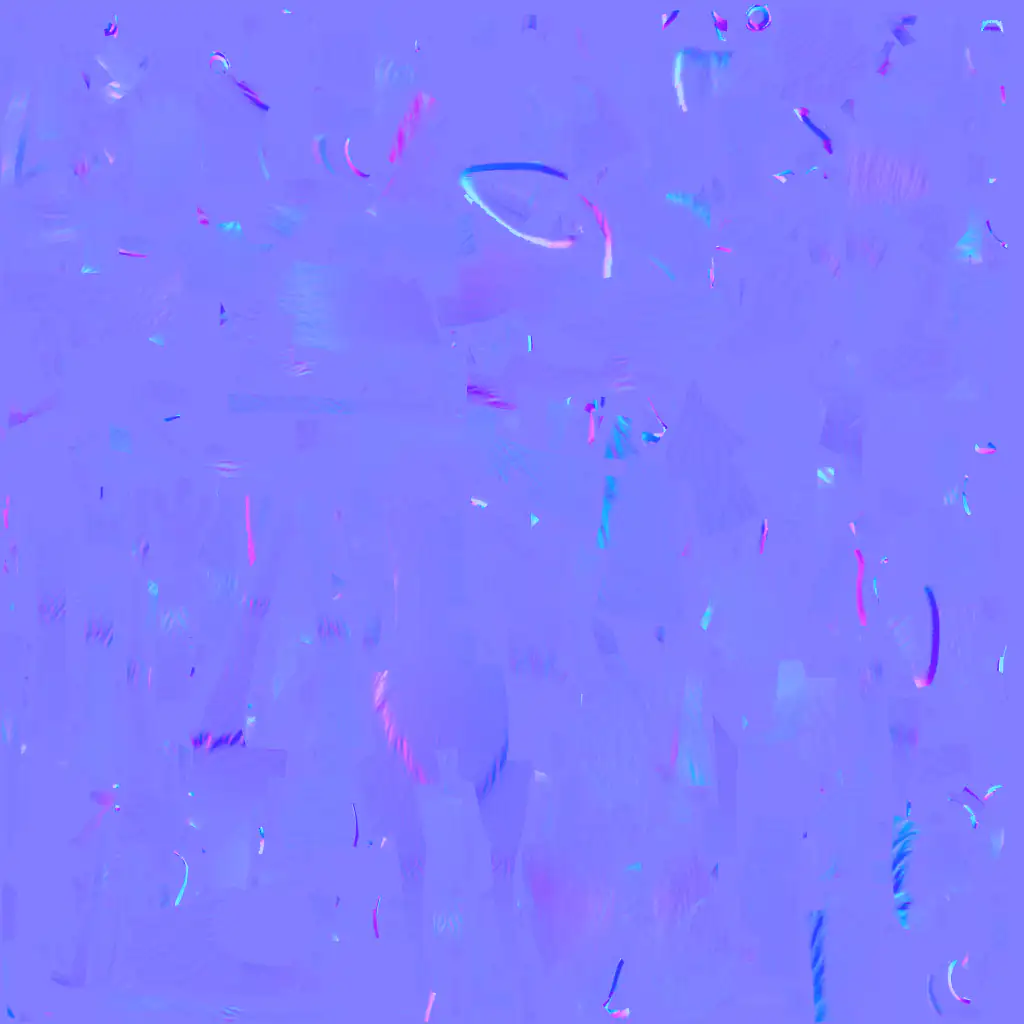
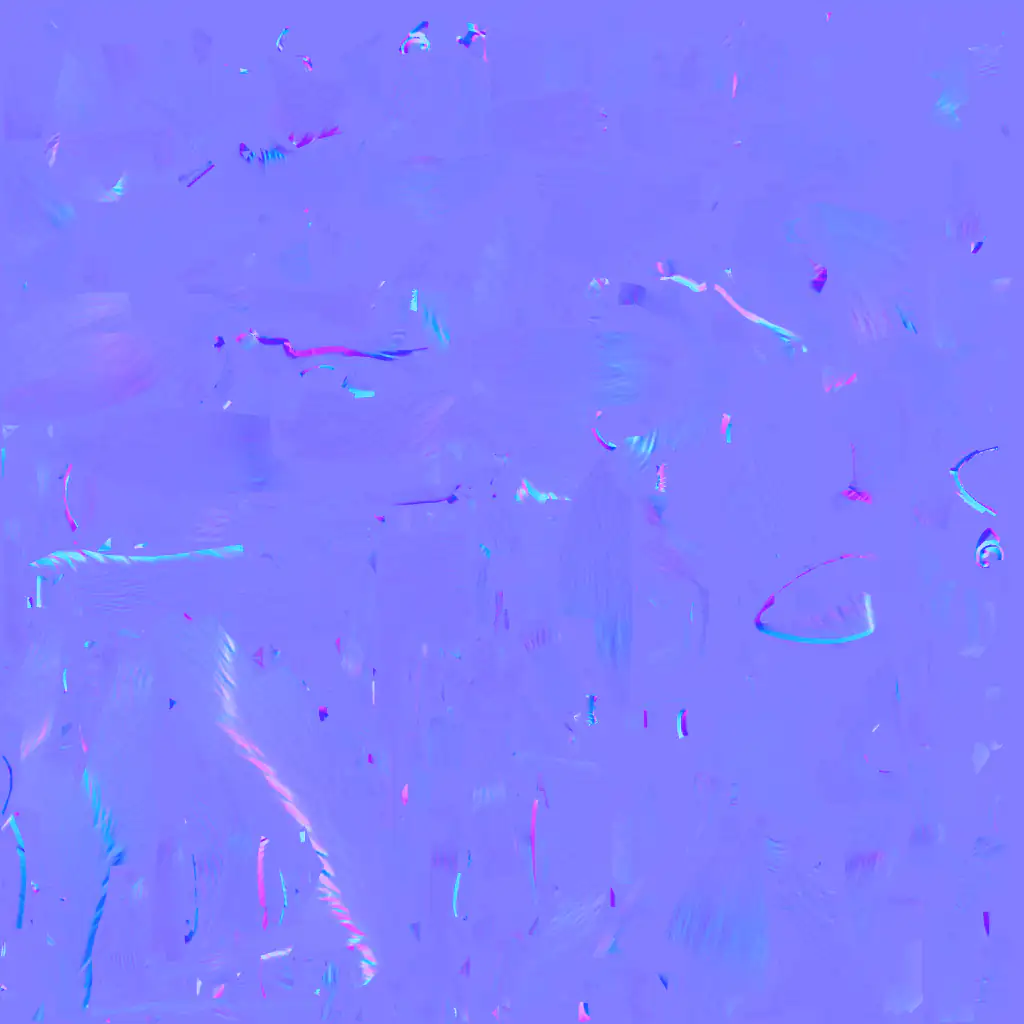
feat(tools): write the fox maps from the new Tripo fox source
tools/fox-maps.py writes the red, the tan, and the normal map from the
maps of the new source. The gaze shift is off (GAZE_SHIFT), because the
source paints each iris where the gaze reads at the viewer. The tan
map keeps the step of the orange fur of the fox before.

diff --git a/tools/fox-maps.py b/tools/fox-maps.py
@@ -34,8 +34,8 @@ QUALITY = 60
 NORMAL_LIMIT = 0.2
 NORMAL_GAIN = 4
 #: The step of the orange fur in the tan map: the Oklab lightness step, the hue step in degrees,
-#: and the chroma factor. The orange fur of the source has the median Oklab L 0.638, C 0.17, and
-#: h 49.7.
+#: and the chroma factor. The orange fur of the source has the median Oklab L 0.629, C 0.165, and
+#: h 48.2.
 TAN_STEP = (0.06, 18.0, 1.0)
 #: The share of the step of a texel: a smoothstep of the Oklab chroma (C_RAMP), times 1 minus a
 #: smoothstep of the lightness (L_RAMP, the cream lies above), times 1 minus a smoothstep of the
@@ -49,10 +49,13 @@ H_RAMP = (15.0, 25.0)
 EYE_MARGIN = 4
 #: The gaze shift of the eyes (tools/gaze_shift.py): the view in degrees above the forward axis of
 #: the head of the seated bind in which each iris lies in the middle of its eye opening, and the
-#: turn of each target out and up from that middle, in degrees.
+#: turn of each target out and up from that middle, in degrees. GAZE_SHIFT turns the shift on. It
+#: is off: the source of the fox with four-digit paws paints each iris where the gaze reads at the
+#: viewer in the play view and from the default camera.
 VIEW_DOWN = 30.0
 GAZE_OUT = 4.0
 GAZE_UP = 0.0
+GAZE_SHIFT = False
 
 
 def linear(srgb):
@@ -154,7 +157,8 @@ def main():
     which = sys.argv[1:] or ['color', 'tan', 'normal']
     image = Image.open(SOURCE).convert('RGB').resize((SIZE, SIZE), Image.LANCZOS)
     rig = gaze_shift.read_rig(RIG)
-    image = gaze_shift.shift_gaze(rig, image, VIEW_DOWN, GAZE_OUT, GAZE_UP)
+    if GAZE_SHIFT:
+        image = gaze_shift.shift_gaze(rig, image, VIEW_DOWN, GAZE_OUT, GAZE_UP)
     if 'color' in which:
         image.save(COLOR_OUT, 'WEBP', quality=QUALITY, method=6)
         print(f'{COLOR_OUT}: {SIZE} x {SIZE}, {os.path.getsize(COLOR_OUT)} bytes')
